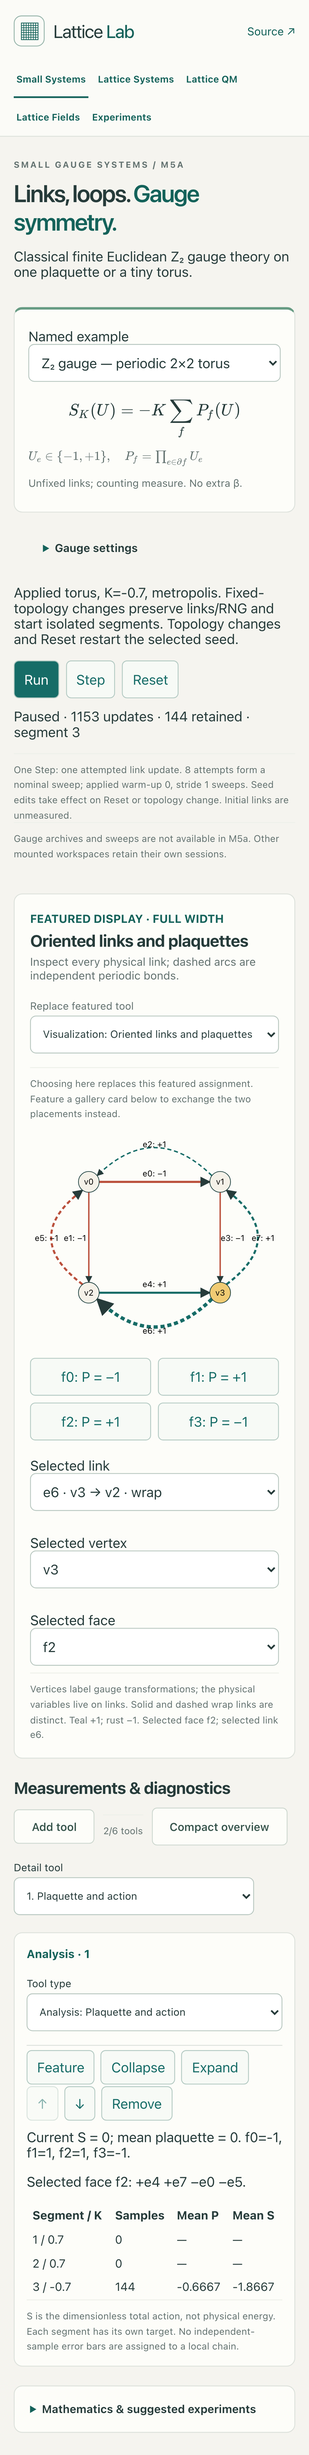
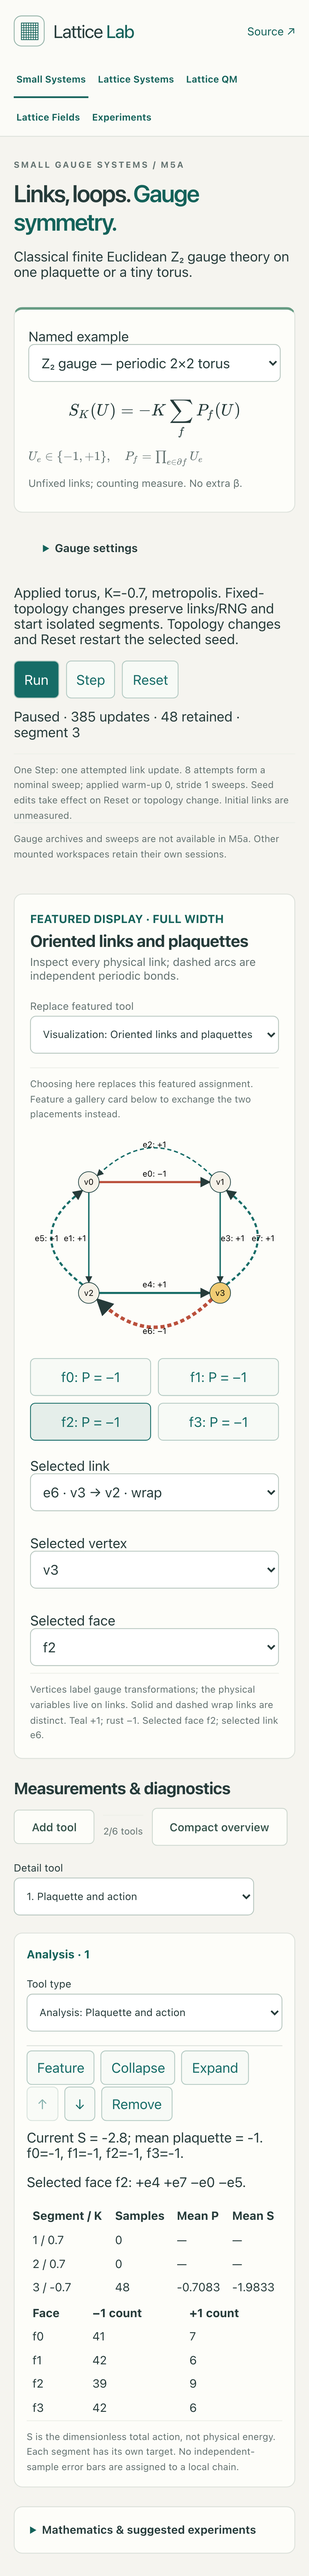
Complete gauge inspection displays and record verified M5a release

diff --git a/src/app/GaugeWorkspace.tsx b/src/app/GaugeWorkspace.tsx
@@ -228,6 +228,26 @@ export function GaugeWorkspace({
               ))}
             </tbody>
           </table>
+          <table aria-label="Current segment plaquette sign histogram">
+            <thead>
+              <tr>
+                <th>Face</th>
+                <th>−1 count</th>
+                <th>+1 count</th>
+              </tr>
+            </thead>
+            <tbody>
+              {model.domain.faces.map((f) => (
+                <tr key={f.id}>
+                  <td>{f.id}</td>
+                  <td>
+                    {(current?.samples ?? 0) - (current?.plus[f.id] ?? 0)}
+                  </td>
+                  <td>{current?.plus[f.id] ?? 0}</td>
+                </tr>
+              ))}
+            </tbody>
+          </table>
           <p className="plot-note">
             S is the dimensionless total action, not physical energy. Each
             segment has its own target. No independent-sample error bars are

diff --git a/tests/browser/z2Gauge.spec.ts b/tests/browser/z2Gauge.spec.ts
@@ -129,6 +129,19 @@ test('gauge transformation and ToolDeck assignments are numerically inert', asyn
     .getByTestId('featured-tool')
     .getByTestId('gauge-invariants')
     .textContent();
+  const histogram = page
+    .getByRole('region', { name: 'Gauge tools', exact: true })
+    .getByTestId('featured-tool')
+    .getByRole('table', { name: 'Current segment plaquette sign histogram' });
+  await expect(histogram.getByRole('row')).toHaveCount(5);
+  for (let i = 1; i <= 4; i++) {
+    const cells = await histogram
+      .getByRole('row')
+      .nth(i)
+      .getByRole('cell')
+      .allTextContents();
+    expect(Number(cells[1]) + Number(cells[2])).toBe(1);
+  }
   await feature(page, 'transform');
   await page.getByLabel('Gauge transformation vertex').selectOption('v0');
   await page

diff --git a/src/app/styles.css b/src/app/styles.css
@@ -2759,7 +2759,7 @@ footer {
   gap: 0.5rem;
   margin: 0.75rem 0;
 }
-.gauge-faces button[aria-pressed='true'] {
+.gauge-workspace .gauge-faces button[aria-pressed='true'] {
   border-color: var(--accent, #166c67);
   background: #e5eeea;
 }

diff --git a/docs/M5A_REVIEW.md b/docs/M5A_REVIEW.md
@@ -1,6 +1,6 @@
 # M5a — Tiny Z₂ lattice gauge theory review
 
-**Branch:** `codex/m5a-z2-gauge`. **Verified base:** `fca9e1fab7ebd4d3dff5ff2e25578ad6cf366842`, matching fetched origin/main before implementation. Work reuses a clean managed checkout; unrelated original-checkout screenshots and earlier recoverable stashes remain untouched. Implementation and the complete local pipeline are complete; remote release and live deployment verification are pending.
+**Branch:** `codex/m5a-z2-gauge`. **Verified base:** `fca9e1fab7ebd4d3dff5ff2e25578ad6cf366842`, matching fetched origin/main before implementation. Work reuses a clean managed checkout; unrelated original-checkout screenshots and earlier recoverable stashes remain untouched. The initial implementation is released and its Actions/Pages and public desktop/phone checks have passed. A small presentation follow-up adds the already-collected face counts and selected-face highlight, with the complete local pipeline repeated successfully.
 
 ## Architecture plan and delivered slice
 
@@ -45,11 +45,11 @@ At torus K=0.7 the sampled mean actions are −2.033675 (direct) and −2.04085 
 
 ## UI, validation and performance
 
-The 48 new numerical/protocol cases pass; all 487 pre-existing unit tests also pass. Production browser tests cover all physical links, presets, parameters/segments, direct/local sampling, gauge preview/apply, loops, exact guidance, tool capacity and display-only seeded replay on desktop Chromium, 360px Chromium and mobile WebKit. The original catalog browser expectations now allow exactly two additional entries while retaining its original groups and numerical examples. Initial browser validation caught and corrected unreliable curved SVG hit targets; dedicated label targets now support touch and keyboard while visible paths remain clickable. Assertions are scoped to the active gauge deck because other workspaces deliberately remain mounted.
+The 48 new numerical/protocol cases pass; all 487 pre-existing unit tests also pass. Production browser tests cover all physical links, presets, parameters/segments, direct/local sampling, gauge preview/apply, loops, exact guidance, tool capacity and display-only seeded replay on desktop Chromium, 360px Chromium and mobile WebKit. The original catalog browser expectations now allow exactly two additional entries while retaining its original groups and numerical examples. A final presentation follow-up displays the already-accumulated per-face sign counts and protects selected-face styling; its browser assertion checks that each pair of counts sums to the retained sample count. The complete pipeline passed again with the same counts. Initial browser validation caught and corrected unreliable curved SVG hit targets; dedicated label targets now support touch and keyboard while visible paths remain clickable. Assertions are scoped to the active gauge deck because other workspaces deliberately remain mounted.
 
 Screenshots: [desktop](screenshots/m5a-desktop.png), [phone](screenshots/m5a-phone.png), [mobile WebKit](screenshots/m5a-mobile-webkit.png). The full `CI=1 npm run check` passed formatting, TypeScript, **535 unit tests in 72 files**, production build and **340 browser tests with the two existing skips unchanged**. No new skips or retries were needed in the final run. `git diff --check` and 134 relative documentation links passed. No dependency, legacy numerical kernel, archive schema or sweep change is included. The existing large-main-chunk build advisory remains (main JS about 681 kB minified / 197 kB gzip).
 
-The measured workload is Run click → first increased worker update rendered → acknowledged Pause, with 128-attempt torus batches: **136 ms desktop Chromium, 218 ms 360px Chromium, 115 ms mobile WebKit** in the final complete pipeline. These include browser scheduling and polling, not isolated kernel timings or guarantees for physical phones. They support the deliberately small fixed batch without an optimization framework.
+The measured workload is Run click → first increased worker update rendered → acknowledged Pause, with 128-attempt torus batches: **121 ms desktop Chromium, 102 ms 360px Chromium, 114 ms mobile WebKit** in the final complete pipeline. These include browser scheduling and polling, not isolated kernel timings or guarantees for physical phones. They support the deliberately small fixed batch without an optimization framework.
 
 ## Readability and remaining limits
 
@@ -59,4 +59,10 @@ No U(1), arbitrary/larger topology, gauge fixing, matter, quantum dynamics, cons
 
 ## Release evidence
 
-The complete local release gate has passed. The implementation commit, remote main/workflow and public-site results will be recorded after the authorized PR or ordinary fast-forward release; local success alone is not a deployment claim.
+Implementation commit **`c5ea50bf65422a8649114190fc2a0c1bff3caca2`** was pushed on `codex/m5a-z2-gauge`. PR creation returned HTTP 403, “Resource not accessible by integration”; no authenticated GitHub CLI was installed. After the complete local gate, exact diff review, clean-worktree check and a fresh fetch confirming origin/main as an ancestor, the explicitly authorized ordinary non-force push fast-forwarded main from `fca9e1f` to `c5ea50b`. Both remote refs were verified.
+
+The [implementation main workflow](https://github.com/gantemur/lattice/actions/runs/38466758282) passed **validation and Pages deployment**. Its downloaded job log confirms 535 unit tests and 340 browser passes with two existing skips (browser suite 13.0 minutes on that runner).
+
+Public checks at [gantemur.github.io/lattice](https://gantemur.github.io/lattice/) verified the served JavaScript contains the implementation SHA. At **1280px and 360px**, actual workers passed direct sampling, local Run/Pause, eight-link selection, invariant preview/apply, exact references, winding inspection, topology reset, retained navigation and scalar fallback. Each profile loaded 15 local JS/CSS/font assets successfully, with **zero console/page errors, failed requests or horizontal overflow**. Live screenshots were retained in the task's temporary verification artifacts; the reviewed repository screenshots above include the final presentation follow-up.
+
+The follow-up changes only the inspection count table, selected-face styling, their regression assertion, screenshots and release documentation. Its complete local pipeline passed again with the same 535/340 counts and unchanged skips. Its main push will run the same required validation/deployment workflow; the final delivered commit and live-site confirmation are reported in the task's release result.

diff --git a/docs/SPECIFICATION.md b/docs/SPECIFICATION.md
@@ -2,7 +2,7 @@
 
 **Version:** 0.25 (tiny Z₂ gauge theory, 2026-10-13)
 
-**Status:** M0–M4d2 and the architecture audit are released to main. Model-page Stages A–E cover QM, Fields, Lattice Systems, named Small Systems examples and bounded custom Ising graphs. M5a tiny Z₂ gauge theory is implemented; the complete local validation pipeline has passed; remote deployment is pending.
+**Status:** M0–M4d2 and the architecture audit are released to main. Model-page Stages A–E cover QM, Fields, Lattice Systems, named Small Systems examples and bounded custom Ising graphs. M5a tiny Z₂ gauge theory is released to main with verified Pages deployment.
 
 **Audience:** researcher/instructor, students, contributors, coding agents  
 **Related:** [Roadmap](ROADMAP.md), [Decisions](DECISIONS.md), [`AGENTS.md`](../AGENTS.md)
@@ -277,7 +277,7 @@ Spatial local Metropolis remains the initial default. HMC draft defaults are ε=
 
 All existing spatial observables and reference gates remain unchanged. Full-segment measurements survive the 256-vector bound; eight segments remain available. HMC adds acceptance including warm-up, divergence counts, scaled finite signed-ΔH mean/RMS/max, force/step work and at most 256 recent defects. Spatial force counts include failed overflow calls. Latest inspection reports actual start/proposed S,K,H, ε,L,Lε, α,u, outcome and bounded completed-step defects, never local-site fields. The selectable HMC tool is a read-only projection; the featured field and existing tools remain available. Global update indices are monotone across sampler segments but represent different work. Auxiliary time, spatial distance, Markov updates and QM Euclidean time are distinct. No automatic tuning, unsupported uncertainty, physical tunneling rate, generic 2D mass fit or archive changes are introduced. See [mathematics](math/hmc-spatial-phi4.md) and [review](M4D2_REVIEW.md).
 
-#### M5a tiny Z₂ gauge theory (implemented; locally validated)
+#### M5a tiny Z₂ gauge theory (released)
 
 Small Systems adds two presentation-only gauge launchers alongside its 20 existing named recipes, without widening the old site-model union or changing any of the five top-level destinations. The existing `graphPreset('square'|'torus')` oriented cell complexes supply four vertices and respectively 4 links/1 face or 8 links/4 faces. Every link has its own ±1 variable and physical edge ID. The counting-measure action is `S=−K Σ_f P_f`, with `K∈[−4,4]`, no additional beta and no gauge quotient. Signed closed walks remain explicit although Z₂ inversion is trivial.
 

diff --git a/docs/ROADMAP.md b/docs/ROADMAP.md
@@ -246,7 +246,7 @@ The M3b2 slice extends the merged M3b1 archive with independently seeded bounded
 - Numerical HMC acceptance logic includes the correct Metropolis correction; reproducibility and area-preserving/time-reversal checks performed within numerical tolerance.
 - Real-valued fields handle scaling and color maps safely without misleading auto-rescaling.
 
-## M5a — Tiny Z₂ gauge theory (implemented; locally validated)
+## M5a — Tiny Z₂ gauge theory (released)
 
 Delivered scope: open plaquette and genuine periodic 2×2 cell complex, independent exact and lazy local link samplers, worker-owned paused gauge transformations, full invariant statistics and bounded segments, independent enumeration/analytic references, all physical link IDs accessible on desktop and phone. Two Small Systems launchers leave the five top-level destinations and old numerical engines intact. The [review](M5A_REVIEW.md) records exhaustive invariance/orbits, finite-state balance, fixed-seed ensemble checks, actual worker protocol, production browser coverage and release status. No gauge archive or sweep format is introduced.
 
@@ -284,7 +284,7 @@ For every feature or small pull request, require:
 4. A screenshot/smoke-test note and explicit list of limitations.
 5. Necessary updates to this roadmap/specification and a decision record if architectural assumptions changed.
 
-M0–M4d2, the readability pass and the architecture audit are released to main. **Model-page Stages A–E are implemented for QM, Fields, Lattice Systems and Small Systems**. M5a tiny Z₂ gauge theory is implemented and locally validated; remaining M5 models and later archive stages remain future scope.
+M0–M4d2, the readability pass and the architecture audit are released to main. **Model-page Stages A–E are implemented for QM, Fields, Lattice Systems and Small Systems**. M5a tiny Z₂ gauge theory is released to main; remaining M5 models and later archive stages remain future scope.
 
 ## Definition of done for the initial public usable release
 

diff --git a/README.md b/README.md
@@ -1,6 +1,6 @@
 # Lattice Lab
 
-**Status:** M0–M4d2 and the model-interface architecture audit are released to main. M5a tiny Z₂ gauge theory is implemented and locally validated; remote deployment is pending. Model-page Stages A–E unify the current workspaces; the 1D Ising chain extends Lattice Systems with a spatial transfer-matrix reference.
+**Status:** M0–M4d2 and the model-interface architecture audit are released to main. M5a tiny Z₂ gauge theory is released to main with verified Pages deployment. Model-page Stages A–E unify the current workspaces; the 1D Ising chain extends Lattice Systems with a spatial transfer-matrix reference.
 
 Lattice Lab is a browser-based laboratory for teaching and small-scale exploration of statistical mechanics, Euclidean lattice quantum mechanics, and lattice field theory. Its emphasis is on mathematical structure, observable quantities, transparent algorithms, and comparisons with exact results.
 
